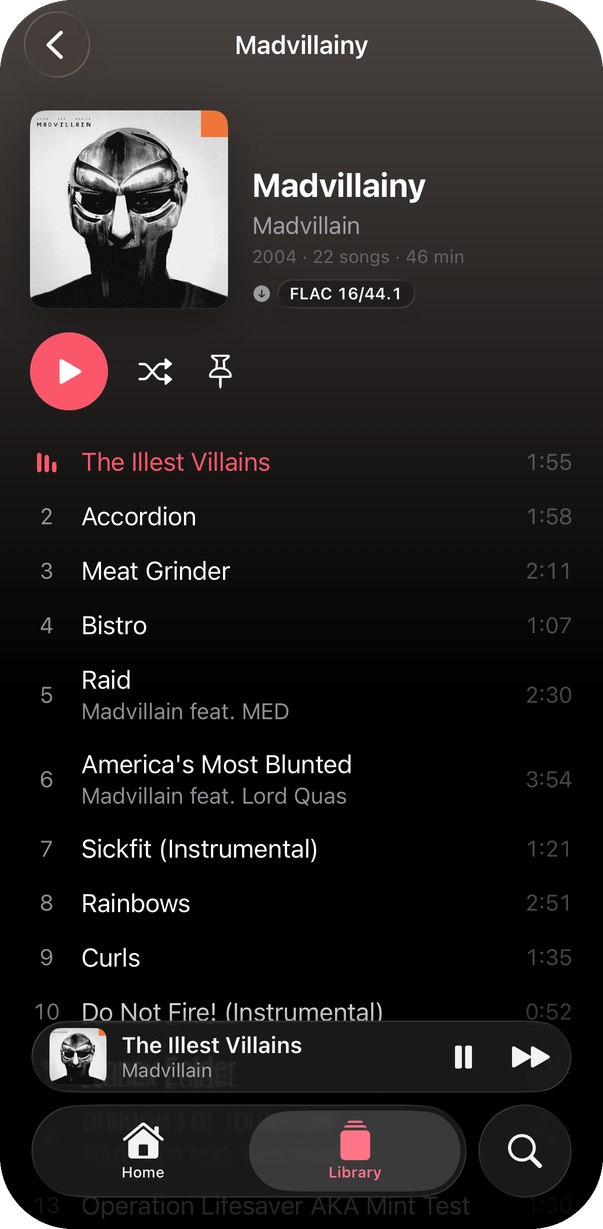
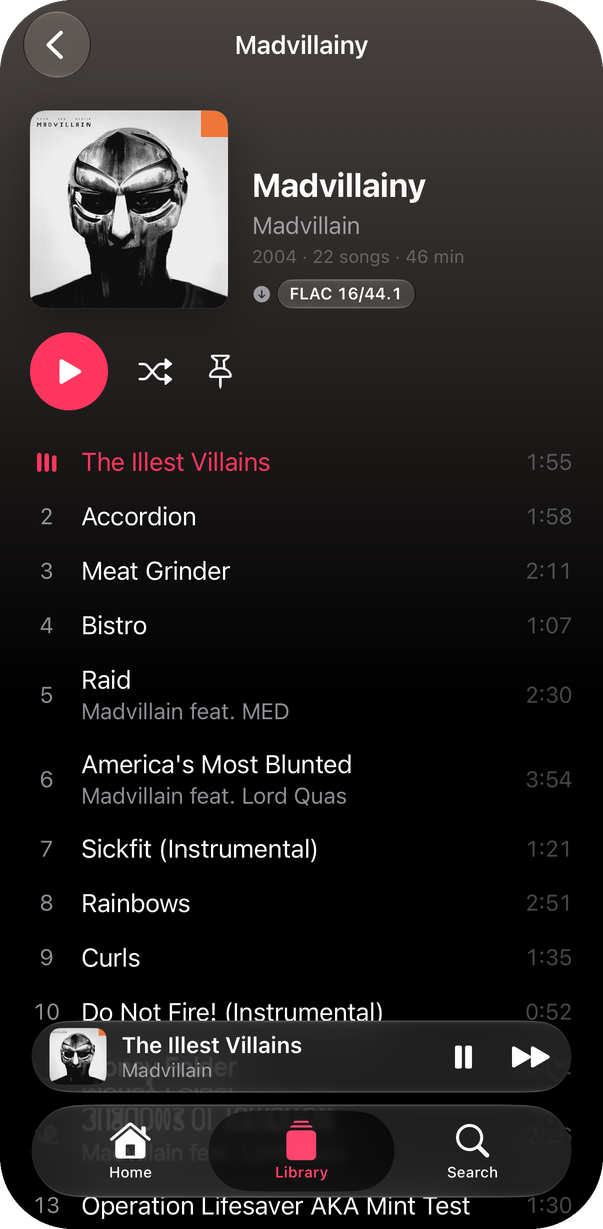
README in the shared format, with new iOS 27 screenshots
Facts, features, the rules the app follows, where its data lives, the code
layout and every launch variable. Screenshots are signed in to the sample
profile.

diff --git a/tests/Shared/StreamUITestCase.swift b/tests/Shared/StreamUITestCase.swift
@@ -37,6 +37,8 @@ class StreamUITestCase: XCTestCase {
         app.launchArguments = ["-musicFolder", Self.library, "-uiTesting", "YES",
                                "-spotifyAccounts", spotify.accountsURL, "-spotifyApi", spotify.apiURL,
                                "-signInAnswered", "YES"]
+        // Signed in to the sample profile, so the profile button shows a picture in screenshots.
+        app.launchEnvironment["SAMPLE_ACCOUNT"] = "1"
         app.launch()
         Self.running = app
     }

diff --git a/scripts/demo.py b/scripts/demo.py
@@ -165,7 +165,8 @@ def mac_window():
     app = os.path.join(ROOT, "build/Build/Products/Debug/Stream.app")
     subprocess.run(["pkill", "-f", app + "/Contents/MacOS/Stream"], check=False)
     demo = json.load(open(os.path.join(os.path.dirname(LIBRARY), "demo.json")))
-    subprocess.run(["open", "-g", "-n", app, "--args", "-musicFolder", LIBRARY, "-uiTesting", "YES",
+    subprocess.run(["open", "-g", "-n", "--env", "SAMPLE_ACCOUNT=1", app, "--args", "-musicFolder", LIBRARY, "-uiTesting", "YES",
+                    "-signInAnswered", "YES",
                     "-url", "network-aza-stream://play?id=" + demo["playing"]["id"],
                     "-url", "network-aza-stream://open?id=" + demo["album"]["id"]], check=True)
     time.sleep(8)

diff --git a/README.md b/README.md
@@ -1,45 +1,100 @@
-<p align="center">
-  <img src="assets/icon.png" width="96" alt="">
-</p>
+# <img src="docs/icon.png" width="40" align="absmiddle" alt=""> Stream
 
-<h1 align="center">Stream</h1>
+<img src="docs/screenshots/home.png" width="160" alt="Home: pins and recents"> <img src="docs/screenshots/now-playing.png" width="160" alt="Now Playing"> <img src="docs/screenshots/lyrics.png" width="160" alt="Synced lyrics"> <img src="docs/screenshots/album.png" width="160" alt="An album"> <img src="docs/screenshots/search.png" width="160" alt="Search">
 
-<p align="center">Spotify and your own music files in one player for iPhone and Mac · iOS 27 / macOS 27</p>
+<img src="docs/screenshots/mac.png" width="832" alt="The Mac app">
 
-<p align="center">
-  <img src="docs/screenshots/home.png" width="180" alt="Home: pins and recents">
-  <img src="docs/screenshots/now-playing.png" width="180" alt="Now Playing">
-  <img src="docs/screenshots/lyrics.png" width="180" alt="Synced lyrics">
-  <img src="docs/screenshots/album.png" width="180" alt="An album">
-</p>
+<table>
+<tr><td><b>Platform</b></td><td>iPhone, iOS 27, and Mac, macOS 27</td></tr>
+<tr><td><b>Data</b></td><td>On your devices. The library index is SQLite in the app's container; Spotify credentials are in the Keychain, on this device only</td></tr>
+<tr><td><b>Network</b></td><td>Spotify, LRCLIB for lyrics, Last.fm if you sign in, the Mac and iPhone to each other over Wi-Fi, and your aza profile picture when signed in</td></tr>
+<tr><td><b>Account</b></td><td>Spotify Premium and your own Spotify developer app for Spotify. Local files need nothing. Sign in with aza is offered once, on first launch</td></tr>
+<tr><td><b>Permissions</b></td><td>Local Network, to copy your library from the Mac</td></tr>
+<tr><td><b>Install</b></td><td><code>scripts/deploy.sh</code> to this Mac and a connected iPhone, or TestFlight. Not for the App Store: it plays Spotify through librespot</td></tr>
+</table>
 
 ## Features
 
-- Your Spotify account (Premium) and local files in one library: FLAC, ALAC, AAC, MP3, Ogg, Opus, WAV, AIFF
-- Liquid Glass design, with Now Playing tinted from the album art
-- Synced lyrics, word by word where the source has it (Spotify, the file's own tags, LRCLIB)
-- Gapless playback and loudness normalization
-- Pins and recents on Home; one search across your library and Spotify
-- Last.fm scrobbling for local files
-- iPhone mirrors the Mac's music folders over Wi-Fi
-- Mac: floating glass player, menu bar mini player, ⌘K to play or go to anything
-- Optional sign-in with aza on first launch, and your own theme and colour
+### One library
 
-## How it works
+- Your Spotify account and your own files side by side: FLAC, ALAC, AAC, MP3, Ogg Vorbis, Opus, WAV and AIFF.
+- Home is a grid of pins (albums, songs, artists, playlists) above your recents; long-press anything to pin it.
+- Library is Playlists, Artists, Albums, Songs and Downloaded. Made For You, Discover Weekly and Daily Mixes sit in Playlists.
+- One search across your library and Spotify, ranked together, with type chips and recent searches.
+- Download a Spotify album or playlist to play offline; one ⬇ badge marks anything playable offline.
 
-A Rust core does the work: Spotify through [librespot](https://github.com/librespot-org/librespot), decoding with Symphonia and libopus, the library in SQLite, lyrics, scrobbling and Wi-Fi sync. SwiftUI apps for iPhone and Mac sit on top through UniFFI, with the bindings in their own nonisolated module. Sign-in, the profile button and Appearance come from [AzaUI](https://github.com/plarza/ui). Audio goes from the core's ring buffer straight into an `AVAudioSourceNode`, so every source shares one gapless pipeline. Decisions and scope are in [SPEC.md](SPEC.md).
+### Playing
+
+- Now Playing is tinted from the album art, with the format and quality ("FLAC 24/96", "OGG 320") under the cover.
+- Synced lyrics, word by word where the source has it; tap a line to seek.
+- A queue of Play Next and Play Later above the rest of the album or playlist.
+- Lock Screen, Control Center, AirPlay, and Siri and Shortcuts through App Intents.
+
+### Mac
+
+- A floating glass sidebar and player over the page, and ⌘K to play or go to anything.
+- A menu bar mini player; closing the window keeps the music going there.
+- The iPhone copies the Mac's music folders over Wi-Fi.
+
+### You
+
+- Last.fm scrobbling for local files, theme, colour and your aza account, all in Profile.
+
+## Rules
+
+| Topic | Rule |
+|---|---|
+| Spotify sign-in | Two approvals in the system's sign-in sheet: your account through your own developer app (Web API), then playback through Spotify's desktop client (`streaming` only). Saved playback credentials are tried before asking again |
+| Audio | One pipeline for every source: Rust decodes into a ring buffer that an `AVAudioSourceNode` pulls from. Gapless always; crossfade off by default |
+| Loudness | One toggle, on by default: ReplayGain tags for files, Spotify's own normalization for Spotify |
+| Lyrics | Spotify's, the file's own tags and LRCLIB; the best sync wins (word over line over plain) and is cached |
+| Scrobbling | Local files only, since Spotify's own Last.fm link covers Spotify. A track counts past half or 4 minutes if it's over 30 seconds; scrobbles queue offline and go out 50 at a time |
+| Sync | The Mac advertises over Bonjour; the iPhone copies everything while open on the same Wi-Fi. Originals, never transcoded, resumable and checked by hash |
+| Library | Spotify and local copies of the same song stay separate items |
+| Likes and toggles | Change on screen at once, and roll back if the core or Spotify refuses |
+
+## Data
+
+| Where | Holds |
+|---|---|
+| `Application Support/network.aza.stream/library.sqlite` | The library: local files, Spotify's library, pins, recents |
+| `Caches/network.aza.stream/` | Artwork, lyrics, and Spotify downloads (encrypted by librespot) |
+| Keychain | Spotify and Last.fm credentials, this device only |
+| Mac music folders | Your files, read in place and never copied or changed |
+
+## Code
+
+```
+Shared/        SwiftUI for both apps: AppModel, views, audio output, Now Playing, artwork
+iOS/, macOS/   Each app's entry point and platform pieces (Wi-Fi sync client, menu bar)
+core/          The Rust core: Spotify (librespot), decoding, queue, SQLite library, lyrics, Last.fm, sync
+Generated/     StreamCore.xcframework and its UniFFI bindings, built by scripts/build-core.sh
+tests/         End-to-end UI tests, a fake Spotify, and a small fixture library
+scripts/       build-core, deploy, testflight, test, demo
+```
+
+The UniFFI bindings compile as their own module, `StreamBindings`, without main-actor isolation, so calls into the core don't land on the main thread. The app is Swift 6 with the main actor as the default. Sign-in, the profile button and Appearance come from [AzaUI](https://github.com/plarza/ui). Decisions and scope are in [SPEC.md](SPEC.md).
 
 ## Develop
 
-Needs Xcode 27, Rust and `brew install xcodegen cmake`.
+Xcode 27, Rust, `brew install xcodegen cmake`, and [uv](https://docs.astral.sh/uv/) for the screenshot script.
 
 | Task | Command |
 |---|---|
 | Build the Rust core | `scripts/build-core.sh` |
 | Open in Xcode | `xcodegen generate && open Stream.xcodeproj` |
-| Install on this Mac and the iPhone | `scripts/deploy.sh` |
-| Upload to TestFlight | `scripts/testflight.sh` |
+| Install on this Mac and the iPhone | `scripts/deploy.sh` (`DEVICE=<udid>` for another iPhone) |
+| Upload to TestFlight | `scripts/testflight.sh [build]` |
 | UI tests in the Simulator | `scripts/test.sh` |
 | Refresh these screenshots | `python3 -I scripts/demo.py --screenshots` |
 
-Spotify sign-in needs your own app at [developer.spotify.com](https://developer.spotify.com/dashboard) with redirect URI `http://127.0.0.1:8989/login`; paste its Client ID in Settings.
+Spotify sign-in needs your own app at [developer.spotify.com](https://developer.spotify.com/dashboard) with the redirect URI `http://127.0.0.1:8989/login`; paste its Client ID in Profile.
+
+The UI tests build their own debug core for the Simulator, run against a fake Spotify and the fixture library, and launch the app once, returning to Home between tests with `network-aza-stream://reset`.
+
+| Launch with | Opens |
+|---|---|
+| `-musicFolder <path>` | That folder as the local library |
+| `-uiTesting YES` | Isolated data, silent output, nothing saved |
+| `-spotifyAccounts <url>`, `-spotifyApi <url>` | A fake Spotify for tests |
+| `-signInAnswered YES`, `SAMPLE_ACCOUNT=1` | Past the sign-in screen; signed in to the sample profile |
